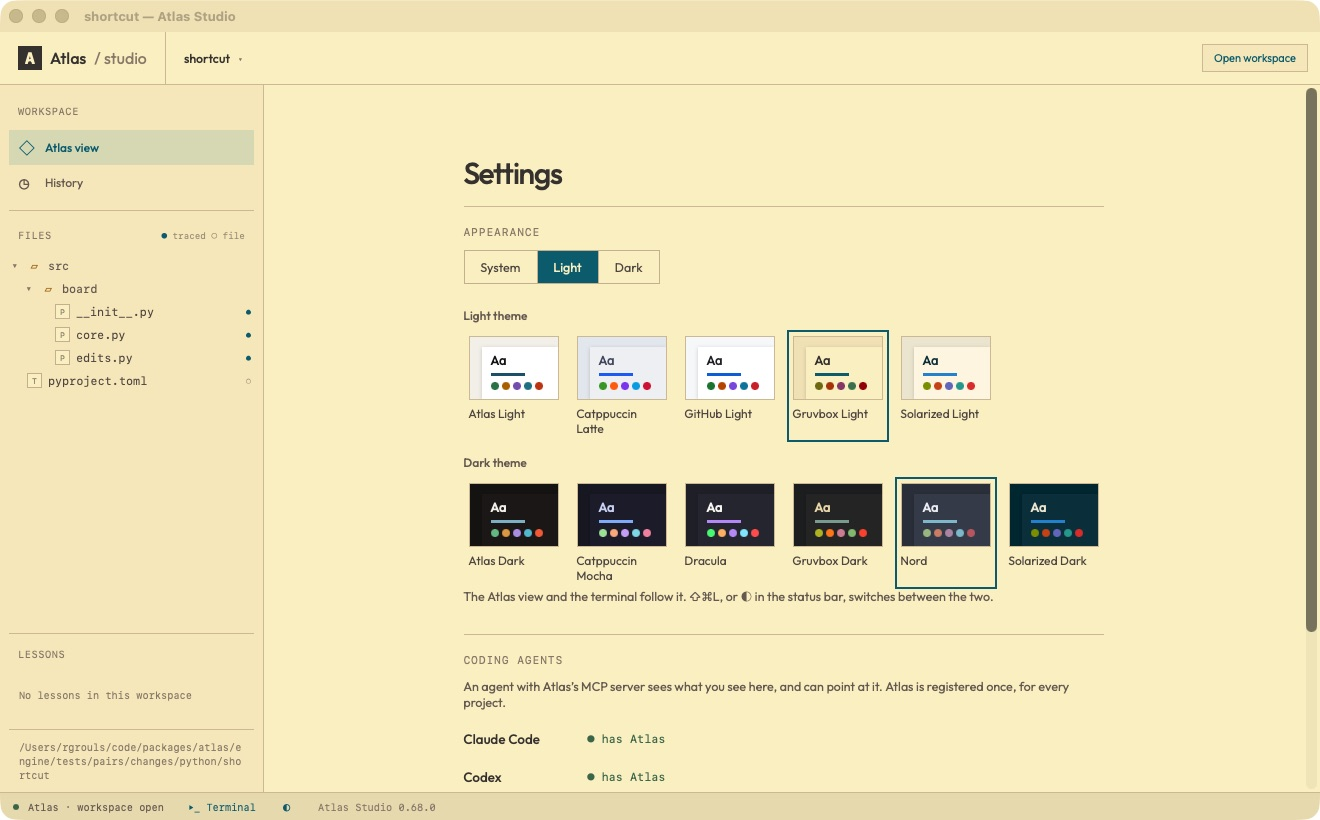
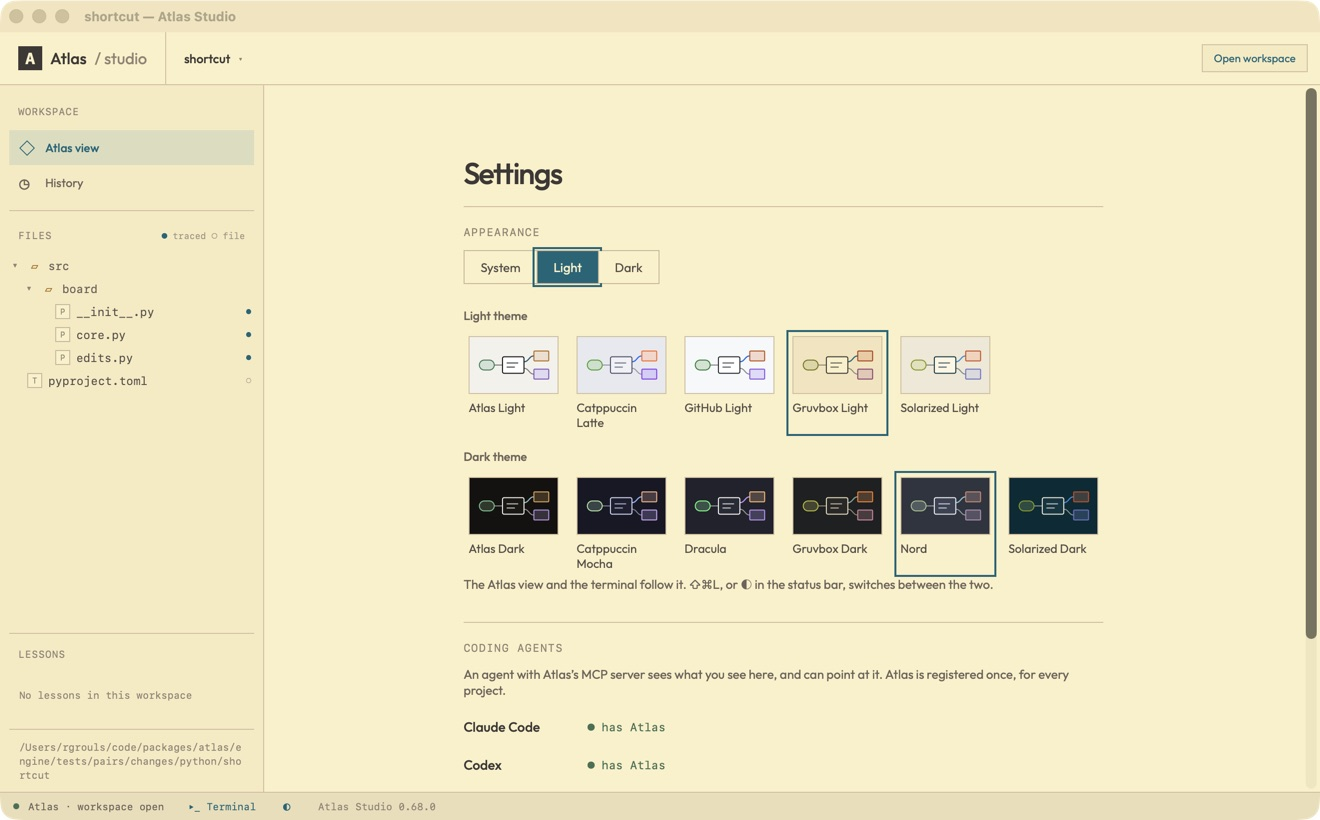
Each theme button draws a piece of an Atlas picture in the theme's colours (#224)
A command starts a route, a function runs, a file and a database row are left
behind, each kind of place in the theme's colour for it.

diff --git a/studio/ui/settings.js b/studio/ui/settings.js
@@ -57,21 +57,31 @@
       appearance.append(node('p', 'settings-note', 'The Atlas view and the terminal follow it. ⇧⌘L, or ◐ in the status bar, switches between the two.'));
     }
 
-    // a theme in small: its background, a sheet of its panel with text in its ink, a line in its focus,
-    // and the colours it gives the kinds of place
+    // a theme in small: a piece of an Atlas picture on its background, drawn in its colours: a route that
+    // starts at a command, runs a function, and leaves a file and a row of a database behind
     function look(theme) {
-      const [background, panel, ink, focus, ...hues] = bridge.swatchOf(theme);
+      const [background, panel, ink, focus, green, orange, purple] = bridge.swatchOf(theme);
       const frame = node('span', 'settings-theme-look');
       frame.style.background = background;
-      const sheet = node('span', 'settings-theme-sheet');
-      sheet.style.background = panel;
-      sheet.style.color = ink;
-      const line = node('i', 'settings-theme-line');
-      line.style.background = focus;
-      const dots = node('span', 'settings-theme-dots');
-      for (const colour of hues) { const dot = node('i', ''); dot.style.background = colour; dots.append(dot); }
-      sheet.append(node('b', '', 'Aa'), line, dots);
-      frame.append(sheet);
+      const svg = document.createElementNS('http://www.w3.org/2000/svg', 'svg');
+      svg.setAttribute('viewBox', '0 0 92 46');
+      svg.setAttribute('aria-hidden', 'true');
+      const draw = (tag, attributes) => {
+        const shape = document.createElementNS('http://www.w3.org/2000/svg', tag);
+        for (const [name, value] of Object.entries(attributes)) shape.setAttribute(name, value);
+        svg.append(shape);
+      };
+      const tinted = (colour) => `color-mix(in oklab, ${colour} 22%, ${panel})`;
+      // the lines first, under the boxes
+      draw('path', {d: 'M22 23 H32', stroke: ink, 'stroke-width': 1.2, fill: 'none', opacity: 0.55});
+      draw('path', {d: 'M58 19 C64 19 64 12 70 12', stroke: focus, 'stroke-width': 1.4, fill: 'none'});
+      draw('path', {d: 'M58 27 C64 27 64 34 70 34', stroke: ink, 'stroke-width': 1.2, fill: 'none', opacity: 0.55});
+      draw('rect', {x: 4, y: 17, width: 18, height: 12, rx: 6, fill: tinted(green), stroke: green, 'stroke-width': 1.2});
+      draw('rect', {x: 32, y: 13, width: 26, height: 20, rx: 2, fill: panel, stroke: ink, 'stroke-width': 1.2});
+      draw('path', {d: 'M37 20.5 H51 M37 25.5 H47', stroke: ink, 'stroke-width': 1.4, opacity: 0.7});
+      draw('rect', {x: 70, y: 6, width: 18, height: 12, rx: 1, fill: tinted(orange), stroke: orange, 'stroke-width': 1.2});
+      draw('rect', {x: 70, y: 28, width: 18, height: 12, rx: 1, fill: tinted(purple), stroke: purple, 'stroke-width': 1.2});
+      frame.append(svg);
       return frame;
     }
 

diff --git a/studio/ui/workbench.css b/studio/ui/workbench.css
@@ -192,12 +192,8 @@ body.dragging{cursor:row-resize;user-select:none}
 .settings-theme{display:flex;flex-direction:column;gap:6px;padding:4px;border:1px solid transparent;background:transparent;text-align:left;cursor:pointer}
 .settings-theme:hover{border-color:var(--s18)}
 .settings-theme[aria-checked="true"]{border-color:var(--s2);box-shadow:0 0 0 1px var(--s2)}
-.settings-theme-look{display:block;height:64px;padding:10px 0 0 12px;border:1px solid var(--s4);overflow:hidden}
-.settings-theme-sheet{display:flex;flex-direction:column;gap:6px;height:100%;padding:7px 9px;box-shadow:0 1px 4px rgba(0,0,0,.18)}
-.settings-theme-sheet b{font-size:13px;font-weight:600;line-height:1}
-.settings-theme-line{display:block;width:60%;height:3px}
-.settings-theme-dots{display:flex;gap:3px}
-.settings-theme-dots i{display:block;width:8px;height:8px;border-radius:50%}
+.settings-theme-look{display:block;height:58px;padding:6px;border:1px solid var(--s4)}
+.settings-theme-look svg{display:block;width:100%;height:100%}
 .settings-theme-name{font-size:12px;color:var(--s15)}
 .settings-segment{border:0;background:var(--s3);padding:8px 16px;font-size:12.5px;color:var(--s15)}
 .settings-segment+.settings-segment{border-left:1px solid var(--s18)}
